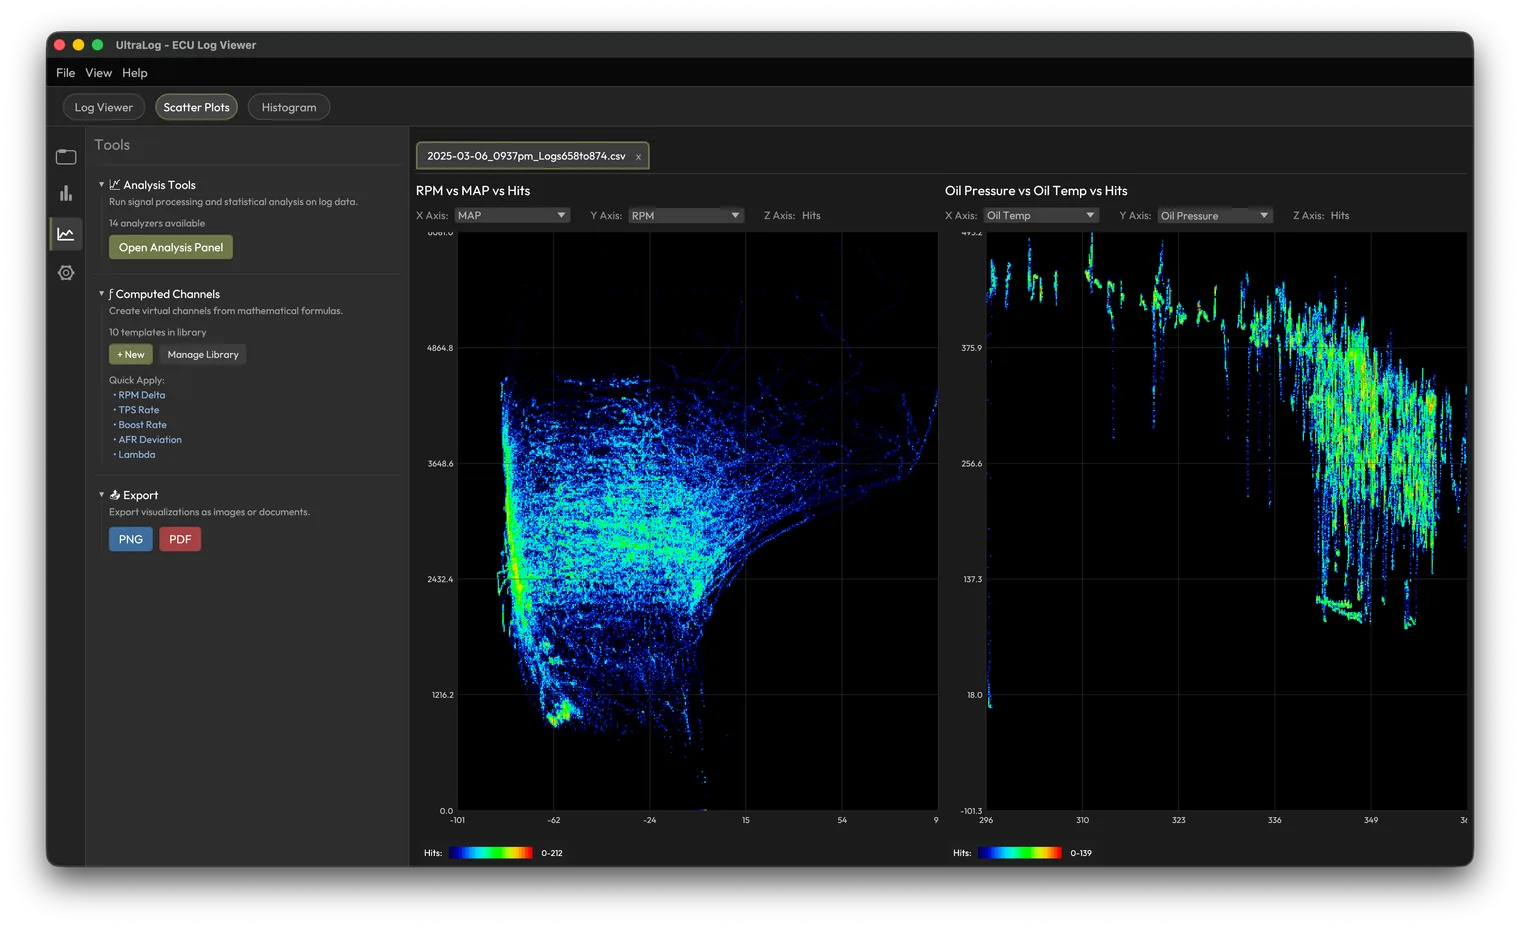
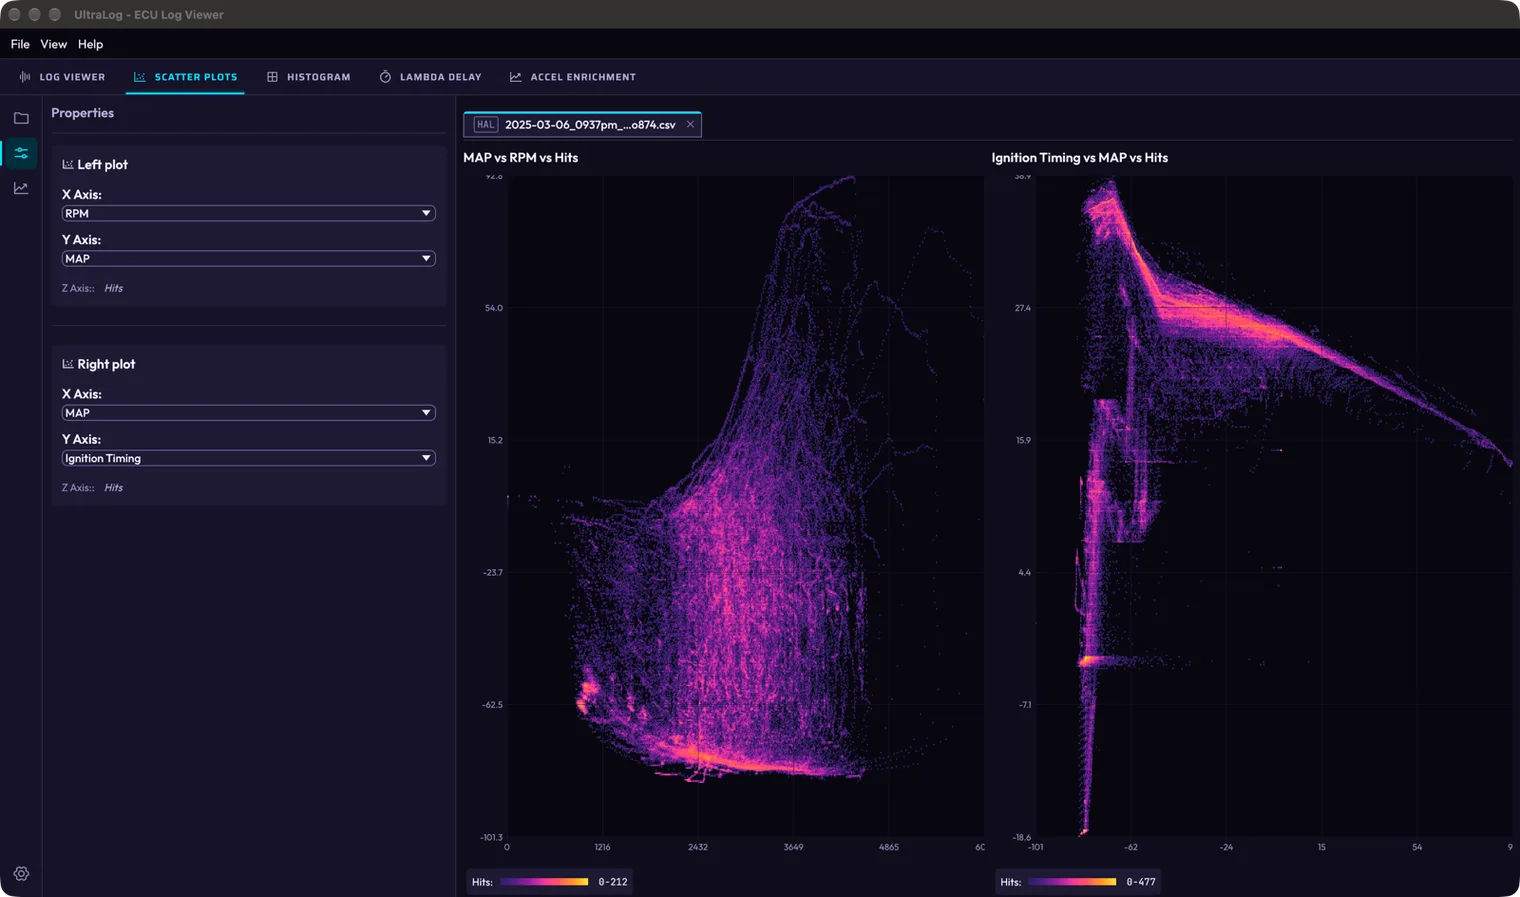
feat(site): Night Drive screenshots for Scatter, Histogram and Accel Enrichment

diff --git a/app/data/content.ts b/app/data/content.ts
@@ -52,9 +52,9 @@ export const MODES: Mode[] = [
     body: 'Plot any two channels against each other to see how they move together, colored by a third.',
     image: {
       name: 'scatter',
-      alt: 'Two UltraLog scatter plots: RPM against MAP, and oil pressure against oil temperature, colored by hit count.',
+      alt: 'Two UltraLog scatter plots in Night Drive from a Haltech log: MAP against RPM, and ignition timing against MAP, colored by hit count.',
       width: 760,
-      height: 464,
+      height: 448,
     },
   },
   {
@@ -63,9 +63,9 @@ export const MODES: Mode[] = [
     body: 'Average any channel over RPM × MAP, or count hits per cell. Copy the grid straight into your tune.',
     image: {
       name: 'histogram',
-      alt: 'UltraLog Histogram: oil pressure averaged over a 32 by 32 grid of MAP and RPM cells.',
+      alt: 'UltraLog Histogram in Night Drive: ignition timing averaged over a 32 by 32 grid of RPM and MAP cells from a Haltech log.',
       width: 760,
-      height: 464,
+      height: 448,
     },
   },
   {
@@ -83,6 +83,12 @@ export const MODES: Mode[] = [
     id: 'accel-enrich',
     name: 'Accel Enrichment',
     body: 'Detects tip-ins, shifts the lambda window by the measured delay, and suggests a starting correction per RPM and throttle-rate cell.',
+    image: {
+      name: 'accel-enrich',
+      alt: 'UltraLog Accel Enrichment table from a Haltech log: suggested correction in percent per RPM and throttle-rate cell, with confidence badges, the rejection summary and the event list for one selected cell.',
+      width: 760,
+      height: 448,
+    },
   },
 ]
 
